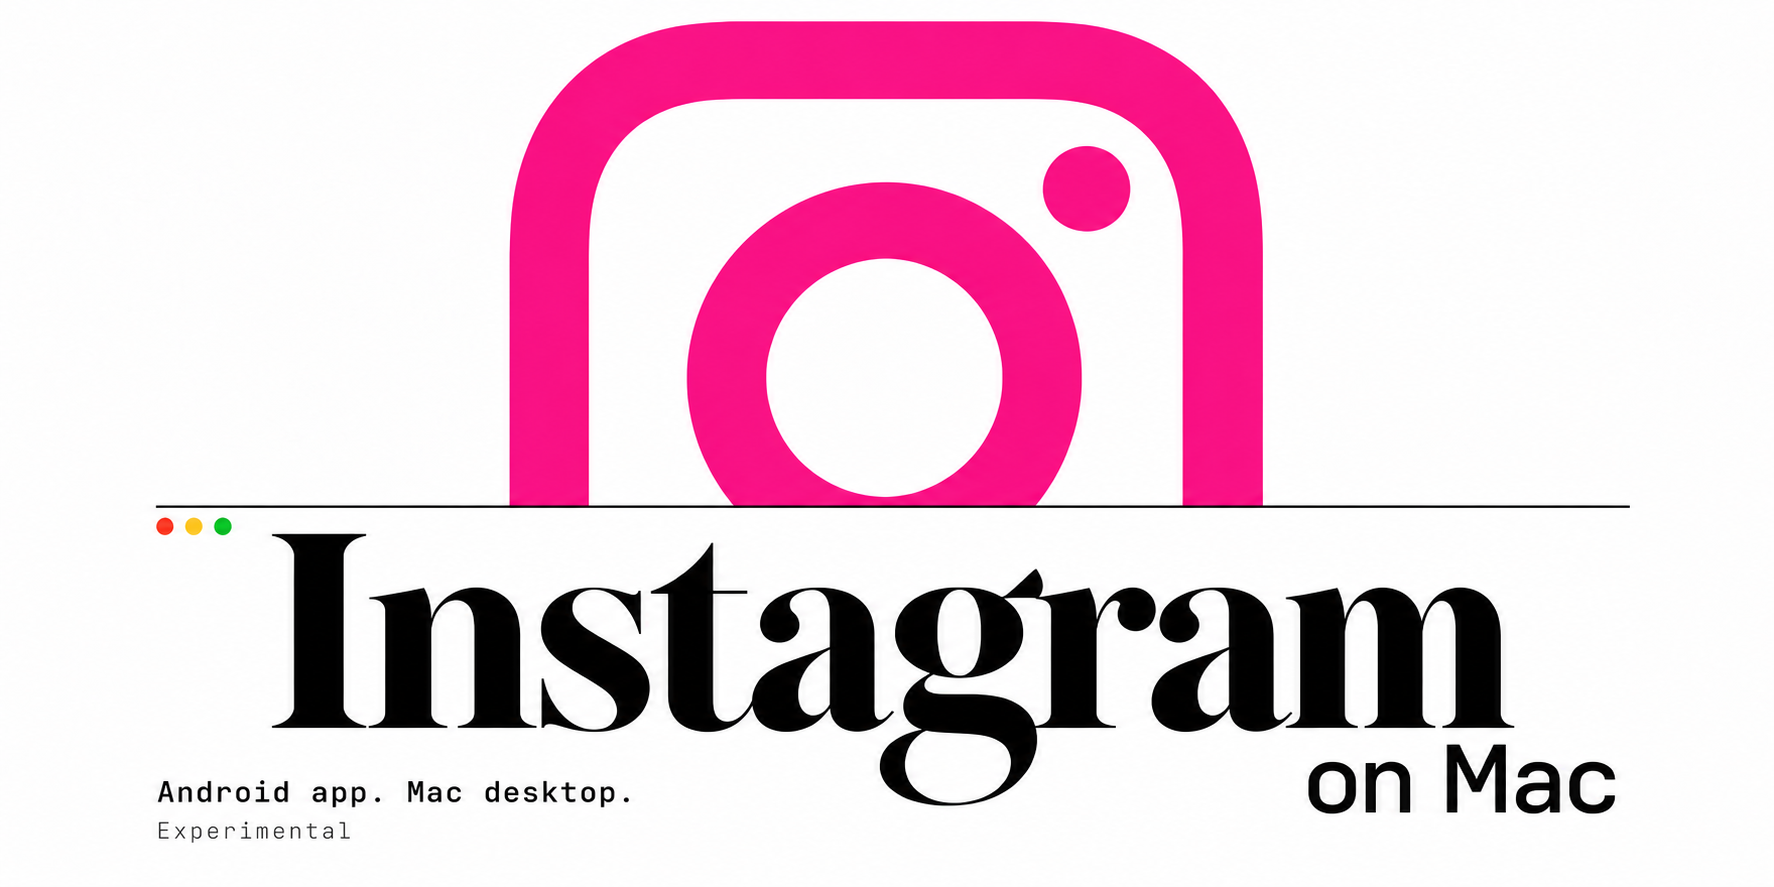
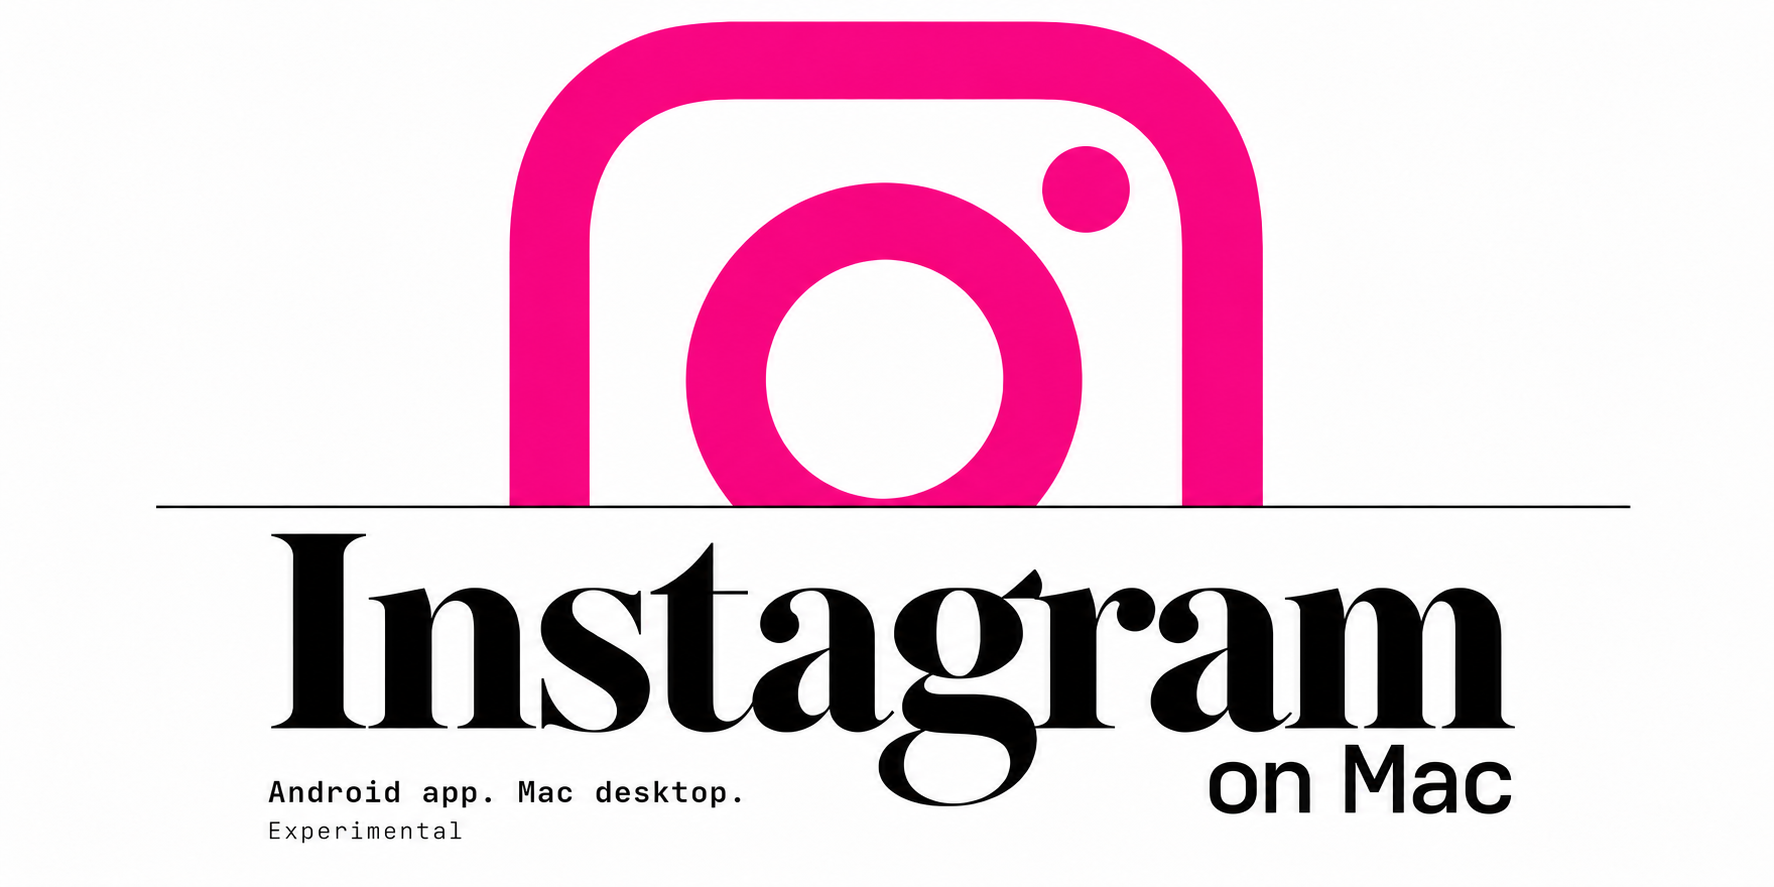
Align the cover text and remove traffic lights

diff --git a/scripts/check_privacy.py b/scripts/check_privacy.py
@@ -21,7 +21,8 @@ ALLOWED_SUFFIXES = {".py", ".sh", ".md", ".json", ".txt", ".patch", ".diff", ".y
 ALLOWED_NAMES = {".gitignore", ".gitattributes", "instagram-on-mac", "LICENSE"}
 PUBLIC_COVER = "assets/cover.svg"
 PUBLIC_PNG_COVER = "assets/cover.png"
[3 lines of base64/hex data omitted]
 PUBLIC_REPOSITORY = "https://github.com/surajmandalcell/instagramOnMac"
 PATTERNS = {
     "private key": re.compile(r"-----BEGIN (?:[A-Z]+ )?PRIVATE KEY-----"),
@@ -86,9 +87,10 @@ def valid_cover_png(data: bytes) -> bool:
     return False
 
 
-def inspect_file(path: str, data: bytes, markers: set[str]) -> list[str]:
+def inspect_file(path: str, data: bytes, markers: set[str], *, historical: bool = False) -> list[str]:
     if path == PUBLIC_PNG_COVER:
-        if hashlib.sha256(data).hexdigest() != PUBLIC_PNG_SHA256 or not valid_cover_png(data):
+        accepted = {PUBLIC_PNG_SHA256} | (HISTORICAL_PNG_SHA256 if historical else set())
+        if hashlib.sha256(data).hexdigest() not in accepted or not valid_cover_png(data):
             return ["cover must match the approved metadata-free RGB PNG"]
         return []
     relative = Path(path)
@@ -176,7 +178,7 @@ def main() -> int:
                 continue
             result = git("cat-file", "blob", object_id.decode())
             failures.extend(("history:" + os.fsdecode(name), error)
-                            for error in inspect_file(os.fsdecode(name), result.stdout, markers))
+                            for error in inspect_file(os.fsdecode(name), result.stdout, markers, historical=True))
     for name, label in failures:
         print(f"FAIL {name}: {label}")
     if failures:

diff --git a/tests/test_privacy.py b/tests/test_privacy.py
@@ -16,6 +16,16 @@ spec.loader.exec_module(privacy)
 
 
 class PrivacyTests(unittest.TestCase):
+    def test_old_approved_cover_is_allowed_only_in_history(self):
+        from unittest.mock import patch
+        data = (privacy.ROOT / privacy.PUBLIC_PNG_COVER).read_bytes()
+        current_hash = privacy.PUBLIC_PNG_SHA256
+        with patch.object(privacy, "PUBLIC_PNG_SHA256", "0" * 64), \
+             patch.object(privacy, "HISTORICAL_PNG_SHA256", {current_hash}):
+            self.assertTrue(privacy.inspect_file(privacy.PUBLIC_PNG_COVER, data, set()))
+            self.assertFalse(privacy.inspect_file(privacy.PUBLIC_PNG_COVER, data, set(), historical=True))
+            self.assertTrue(privacy.inspect_file("assets/private.png", data, set(), historical=True))
+
     def test_only_exact_approved_png_cover_is_allowed(self):
         data = (privacy.ROOT / privacy.PUBLIC_PNG_COVER).read_bytes()
         self.assertFalse(privacy.inspect_file(privacy.PUBLIC_PNG_COVER, data, set()))

diff --git a/specs/project.md b/specs/project.md
@@ -4,7 +4,7 @@
 - Never include account data, tokens, cookies, app databases, logs, screenshots, media, APKs, build products, signing keys, personal paths, account identifiers, or local signing identities.
 - Keep Git author and committer metadata generic for this repository. Do not add a remote or publish it without a separate request.
 - Publish a source-only experimental release with a reproducible setup, clear limitations, and approved cover art. Never publish personal screenshots or account media.
-- Use C2 / Editorial Serif as the final cover: a large pink camera, thin window rule, large serif Instagram title, and smaller on Mac text. Keep the chosen pixels unchanged and remove image metadata. The only approved raster asset is assets/cover.png, pinned by the privacy check.
+- Use C2 / Editorial Serif as the final cover: a large pink camera, thin window rule without traffic lights, large serif Instagram title, and smaller on Mac text. Align both footer lines with the title's visible I left edge and the end of on Mac with its final m right edge. Preserve the approved style and remove image metadata. The only approved raster asset is assets/cover.png, pinned by the privacy check.
 - Download Mac.apk from its official GitHub release. Pin the tested source commit and download checksums. Retain upstream license notices.
 - Fetch, patch, build, install, check for updates, and update through one command-line entry point.
 - Fail before changing installed apps if a new release is unsupported, a checksum fails, a patch does not apply, a build fails, or signing fails.
